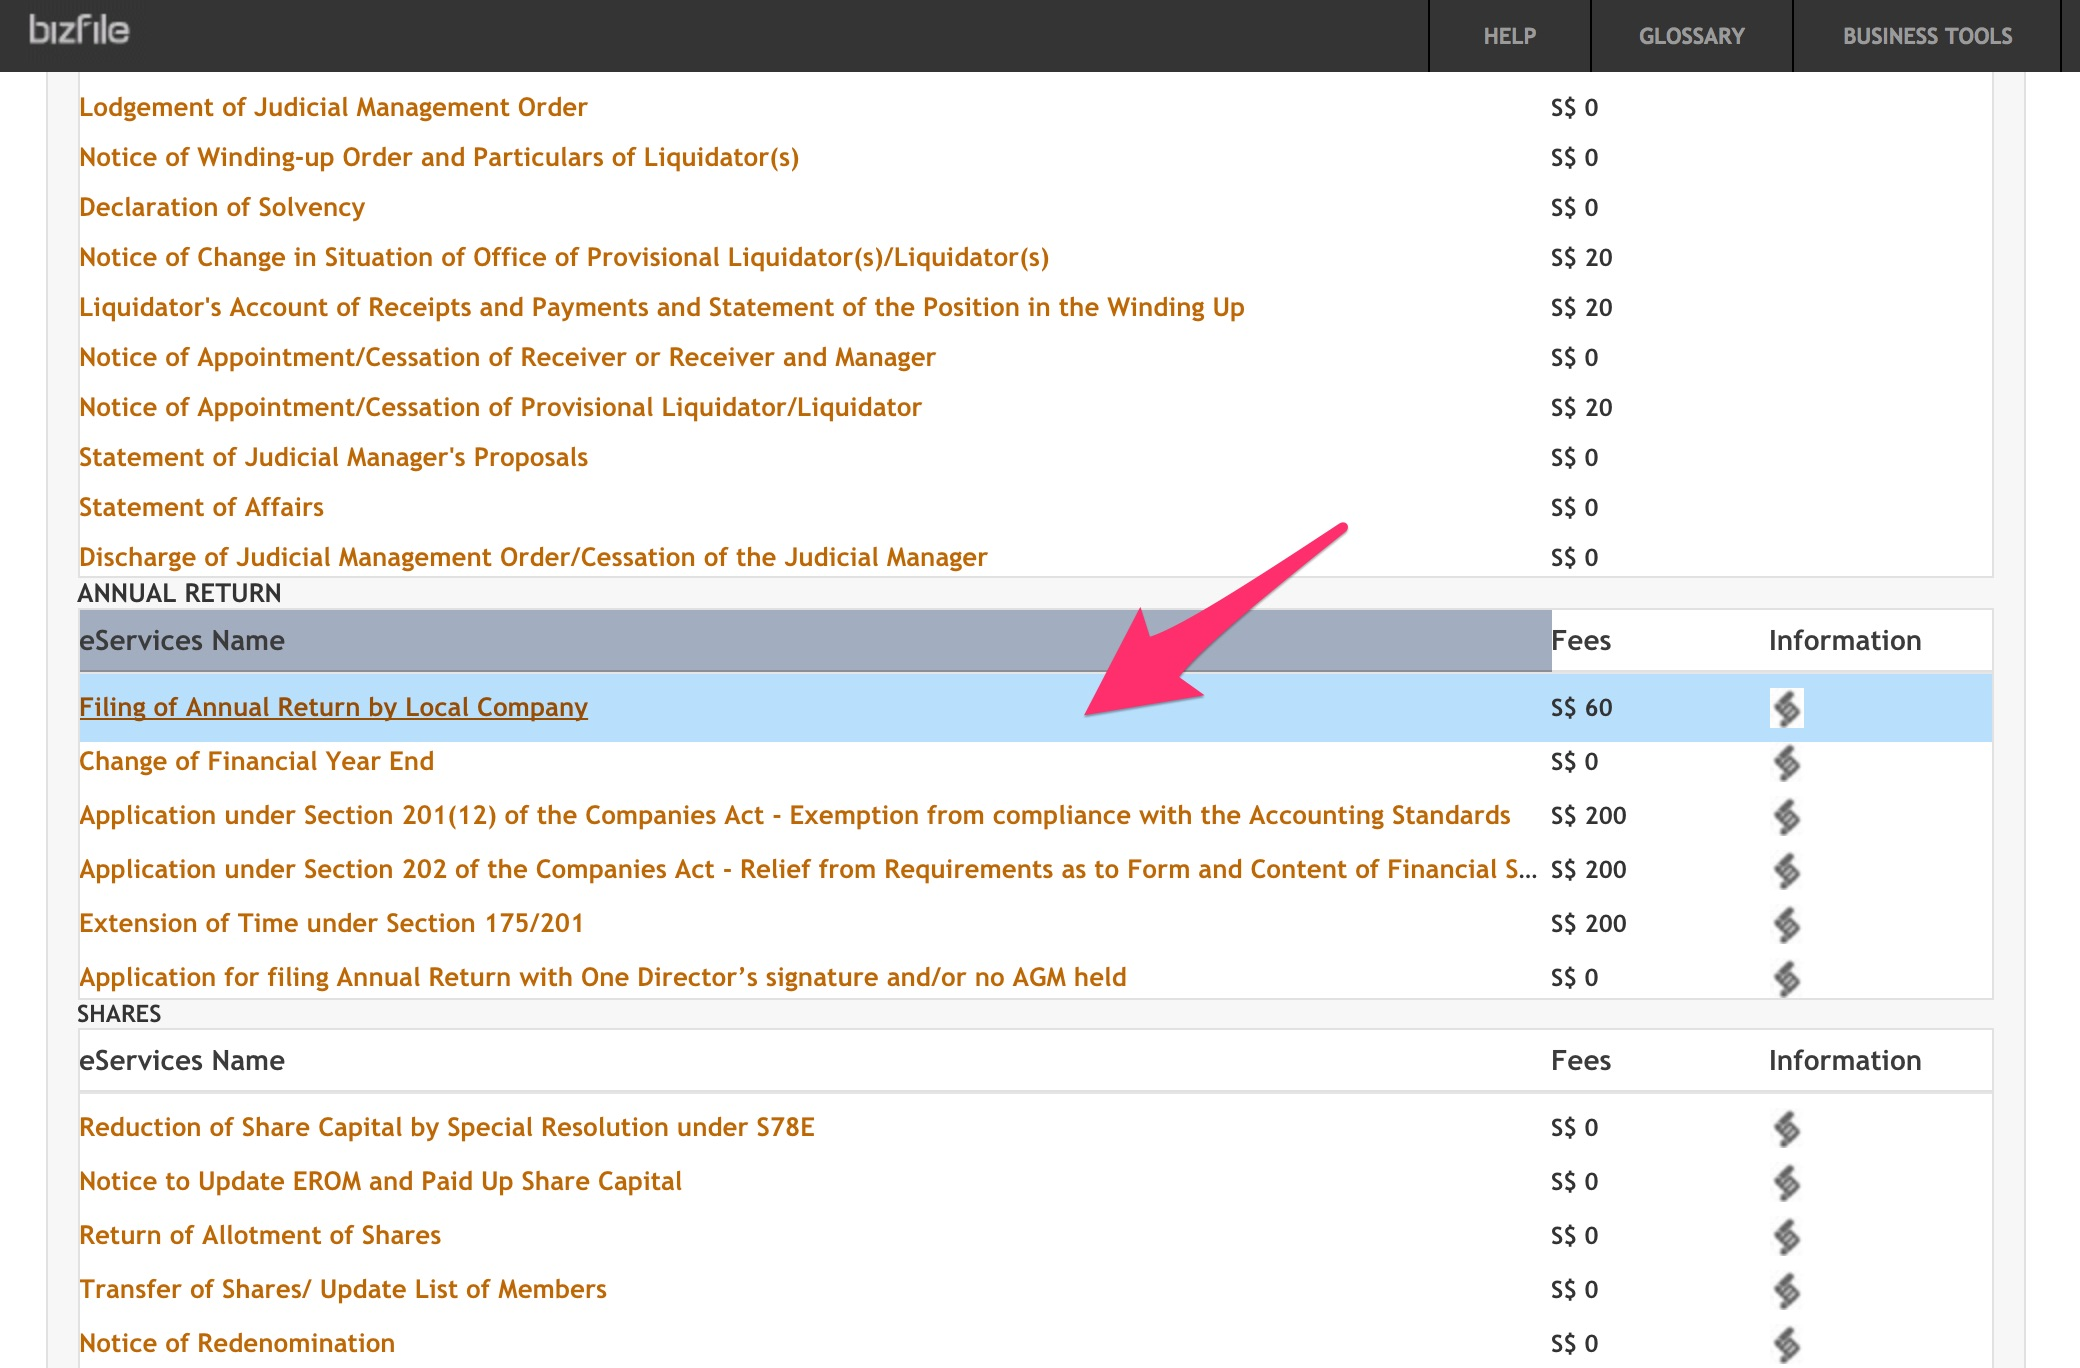
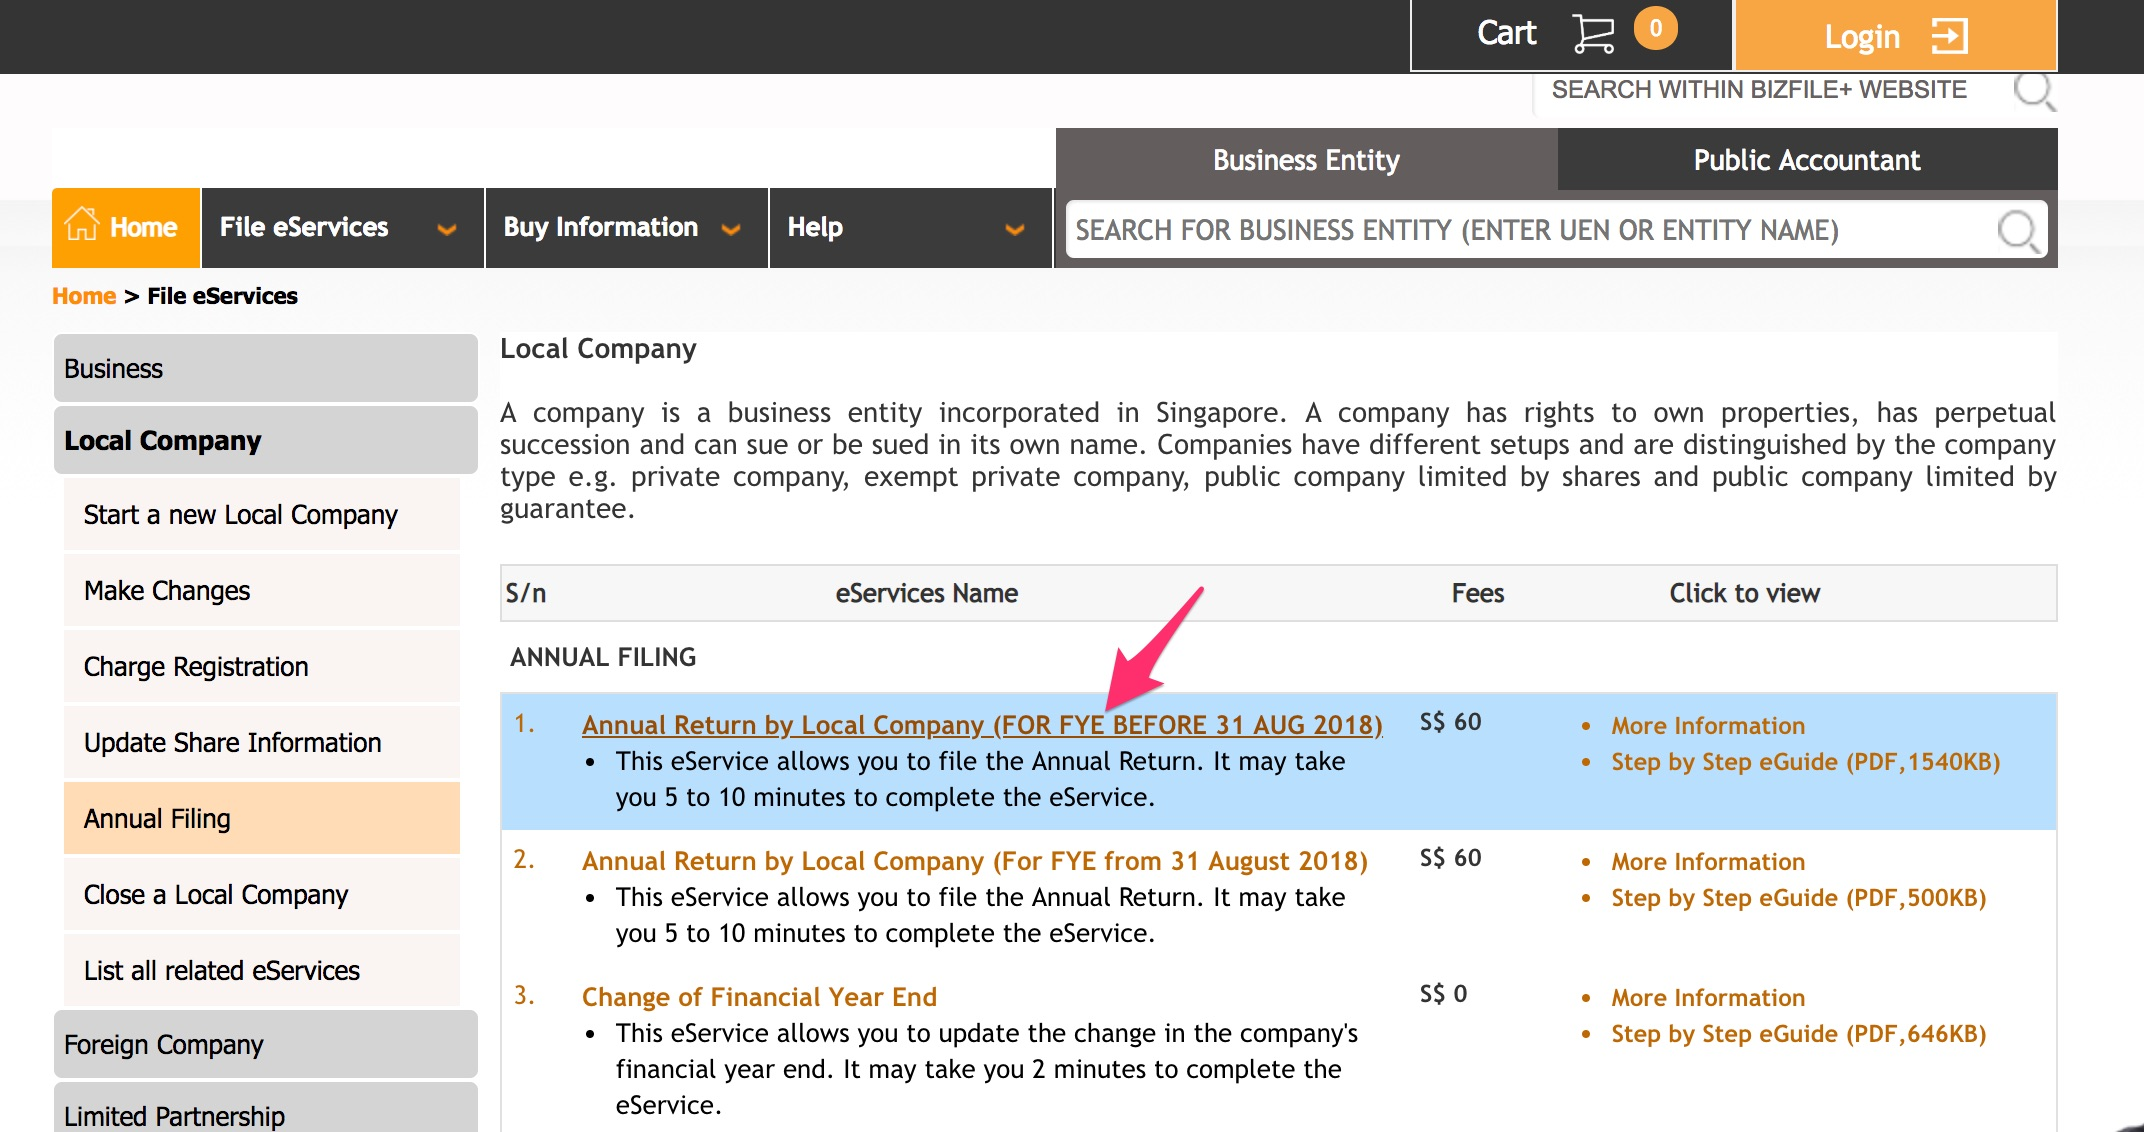
Update ACRA Annual Filing for 2018

diff --git a/acra.md b/acra.md
@@ -3,20 +3,25 @@
 > 15 Nov: File AGM / Annual Filling with ACRA
 
 1. Go to [Bizfile](http://www.bizfile.gov.sg/)
-1. Click `Explore eServices` > `Local Company`
+1. Click `File eServices` > `Local Company` > `Annual Filing`
     ![](img/acra-menu.jpg)
-1. Click `Filing of Annual Return by Local Company`
+1. Click either `Annual Return by Local Company (For FYE Before...)` or `Annual Return by Local Company (For FYE After...)` depending on your date
     ![](img/acra-annual-filing.jpg)
-1. Fill in UEN number
+1. Login with Corppass
+    ![](img/acra-corppass-login.jpg)
+1. Fill in UEN number and choose `Simplified AR`
     ![](img/acra-uen.jpg)
-1. Fill up **Company Details** and click `Submit`
-    ![](img/acra-filing-1.png)
-1. Fill up **Annual Return Details** and click `Submit`
-  ![](img/acra-filing-2.png)
-  ![](img/acra-info.png)
-1. Fill up **Declaration** and click `Submit`
-  ![](img/acra-declaration.png)
-  ![](img/acra-register.png)
-1. Preview and pay `SGD 60`
+1. Check **Company Information**
+    ![](img/acra-filing-1.jpg)
+1. Check **Shares**
+    ![](img/acra-filing-2.jpg)
+1. Check **Annual Return Details**
+    ![](img/acra-filing-3.jpg)
+1. Check **Declaration** and click `Submit`
+    ![](img/acra-filing-4.jpg)
+1. Preview and click `Confirm`
+    ![](img/acra-confirm.jpg)
+1. Click `Pay Now` and pay online `SGD 60`
+    ![](img/acra-pay.jpg)
 1. Print the Acknowledgement
-  ![](img/acra-acknowledgement.png)
+    ![](img/acra-ack.jpg)
